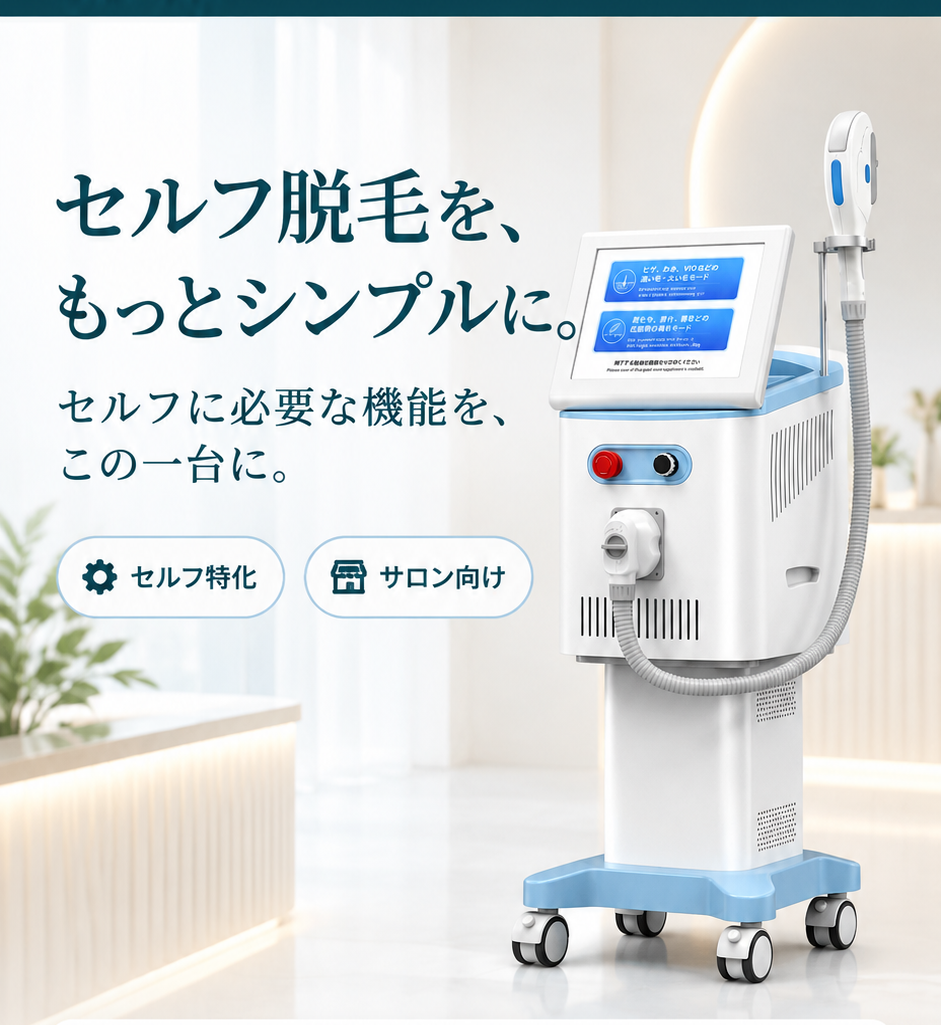
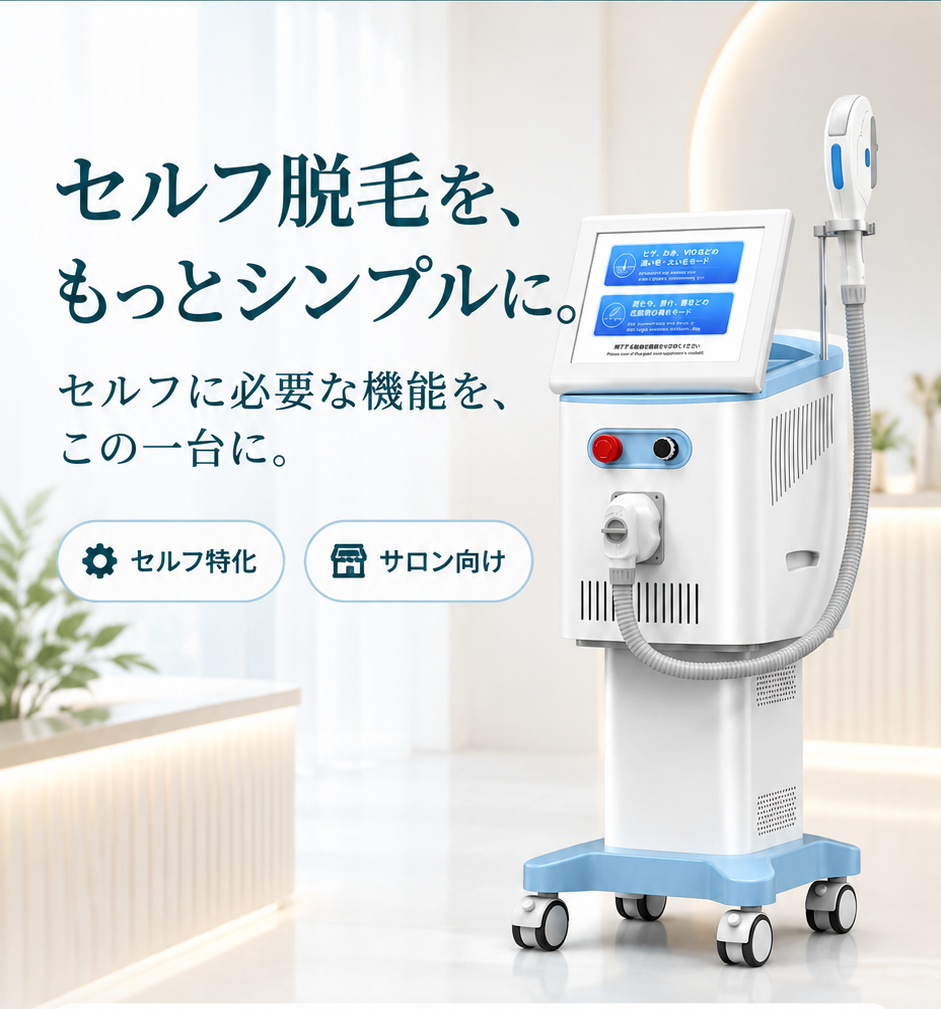
fix: ヘッダーロゴの透過処理・FV上部の余分な帯トリミングおよびスマホでのイラスト見切れを修正

diff --git a/index.html b/index.html
@@ -19,7 +19,7 @@
   <header class="site-header" id="header">
     <div class="header-container">
       <a href="#" class="brand-logo" aria-label="NANALY ホーム">
-        <img src="LP_assets_NANALY/images/01_nanaly_logo_header.png" alt="NANALY" class="logo-img">
+        <img src="LP_assets_NANALY/images/01_nanaly_logo_header.png?v=3" alt="NANALY" class="logo-img">
       </a>
       
       <!-- PC用ナビゲーション -->
@@ -57,7 +57,7 @@
   <!-- スマホ用ドロワーメニュー -->
   <div class="mobile-drawer" id="mobileDrawer" aria-hidden="true">
     <div class="drawer-header">
-      <img src="LP_assets_NANALY/images/01_nanaly_logo_header.png" alt="NANALY" class="drawer-logo">
+      <img src="LP_assets_NANALY/images/01_nanaly_logo_header.png?v=3" alt="NANALY" class="drawer-logo">
       <button class="drawer-close" id="drawerClose" aria-label="メニューを閉じる">&times;</button>
     </div>
     <ul class="drawer-nav">
@@ -81,7 +81,7 @@
       <div class="hero-salon-stage">
         <!-- スマホ用ヒーロー全景画像 (1.pngの構図そのもの) -->
         <div class="hero-sp-visual">
-          <img src="images/hero_mockup_full.png?v=2" alt="セルフ脱毛を、もっとシンプルに。セルフに必要な機能を、この一台に。" class="hero-sp-img">
+          <img src="images/hero_mockup_full.png?v=3" alt="セルフ脱毛を、もっとシンプルに。セルフに必要な機能を、この一台に。" class="hero-sp-img">
         </div>
 
         <!-- PC用ヒーロー構成 (大画面での迫力あるサロン空間と左右配置) -->
@@ -374,7 +374,7 @@
           <div class="concept-flow-card card-omit stagger-child">
             <div class="flow-pill-tag gray-tag">省く</div>
             <div class="concept-icon-box">
-              <img src="images/icon_facial.png" alt="光フェイシャルなどセルフで使わない機能" class="concept-icon-img">
+              <img src="images/icon_facial.png?v=2" alt="光フェイシャルなどセルフで使わない機能" class="concept-icon-img">
             </div>
             <p class="concept-card-desc">光フェイシャルなど<br>セルフで使わない<br>機能</p>
           </div>
@@ -387,7 +387,7 @@
           <div class="concept-flow-card card-utilize stagger-child">
             <div class="flow-pill-tag blue-tag">活かす</div>
             <div class="concept-icon-box">
-              <img src="images/icon_hair.png" alt="セルフに必要な脱毛機能" class="concept-icon-img" onerror="this.src='LP_assets_NANALY/icons_svg/07_follicle.svg'">
+              <img src="images/icon_hair.png?v=2" alt="セルフに必要な脱毛機能" class="concept-icon-img" onerror="this.src='LP_assets_NANALY/icons_svg/07_follicle.svg'">
             </div>
             <p class="concept-card-desc">セルフに必要な<br>脱毛機能</p>
           </div>
@@ -400,7 +400,7 @@
           <div class="concept-flow-card card-focus stagger-child">
             <div class="flow-pill-tag orange-tag">機能を絞って</div>
             <div class="concept-icon-box machine-focus-box">
-              <img src="images/machine_focus_clean.png" alt="導入コストを抑える設計" class="concept-machine-img">
+              <img src="images/machine_focus_clean.png?v=2" alt="導入コストを抑える設計" class="concept-machine-img">
             </div>
             <p class="concept-card-desc highlight-desc">導入コストを<br>抑える設計</p>
           </div>

diff --git a/css/style.css b/css/style.css
@@ -1436,7 +1436,7 @@ button {
   display: flex;
   align-items: stretch;
   justify-content: space-between;
-  gap: 3px;
+  gap: 4px;
   width: 100%;
   max-width: 640px;
   margin: 0 auto 28px;
@@ -1453,6 +1453,7 @@ button {
   flex-direction: column;
   align-items: center;
   box-sizing: border-box;
+  overflow: hidden;
   transition: transform var(--transition), box-shadow var(--transition);
 }
 
@@ -1482,7 +1483,7 @@ button {
   justify-content: center;
   padding: 2px 5px;
   border-radius: var(--radius-pill);
-  font-size: 0.68rem;
+  font-size: clamp(0.6rem, 2.3vw, 0.68rem);
   font-weight: 700;
   margin-bottom: 6px;
   white-space: nowrap;
@@ -1505,36 +1506,41 @@ button {
 }
 
 .concept-icon-box {
-  width: 56px;
-  height: 56px;
+  width: 52px;
+  height: 52px;
   max-width: 100%;
   display: flex;
   align-items: center;
   justify-content: center;
   margin-bottom: 6px;
   position: relative;
+  flex-shrink: 0;
 }
 
 .concept-icon-img {
   width: 100%;
   height: 100%;
   object-fit: contain;
+  display: block;
 }
 
 .concept-machine-img {
-  max-height: 64px;
+  max-height: 58px;
   width: auto;
   max-width: 100%;
   object-fit: contain;
+  display: block;
 }
 
 .concept-card-desc {
-  font-size: 0.68rem;
+  font-size: clamp(0.6rem, 2.4vw, 0.68rem);
   font-weight: 600;
   color: var(--text-main);
   line-height: 1.32;
-  word-break: keep-all;
+  letter-spacing: -0.03em;
+  word-break: normal;
   overflow-wrap: break-word;
+  padding: 0 1px;
 }
 
 .highlight-desc {
@@ -1544,16 +1550,29 @@ button {
 
 .concept-arrow-wrap {
   flex-shrink: 0;
-  width: 8px;
+  width: 6px;
   display: flex;
   align-items: center;
   justify-content: center;
   align-self: center;
   font-family: var(--font-en);
-  font-size: 0.95rem;
+  font-size: 0.85rem;
   font-weight: 700;
   color: #274b5c;
   line-height: 1;
+}
+
+@media (max-width: 400px) {
+  .concept-section .container {
+    padding-left: 8px;
+    padding-right: 8px;
+  }
+  .concept-flow-wrapper {
+    gap: 3px;
+  }
+  .concept-flow-card {
+    padding: 10px 2px 10px;
+  }
 }
 
 @media (min-width: 390px) {
@@ -1576,6 +1595,10 @@ button {
   }
   .concept-card-desc {
     font-size: 0.72rem;
+  }
+  .concept-arrow-wrap {
+    width: 8px;
+    font-size: 0.95rem;
   }
 }
 
@@ -1605,6 +1628,7 @@ button {
   .concept-card-desc {
     font-size: 0.88rem;
     line-height: 1.4;
+    letter-spacing: normal;
   }
   .concept-arrow-wrap {
     width: auto;
